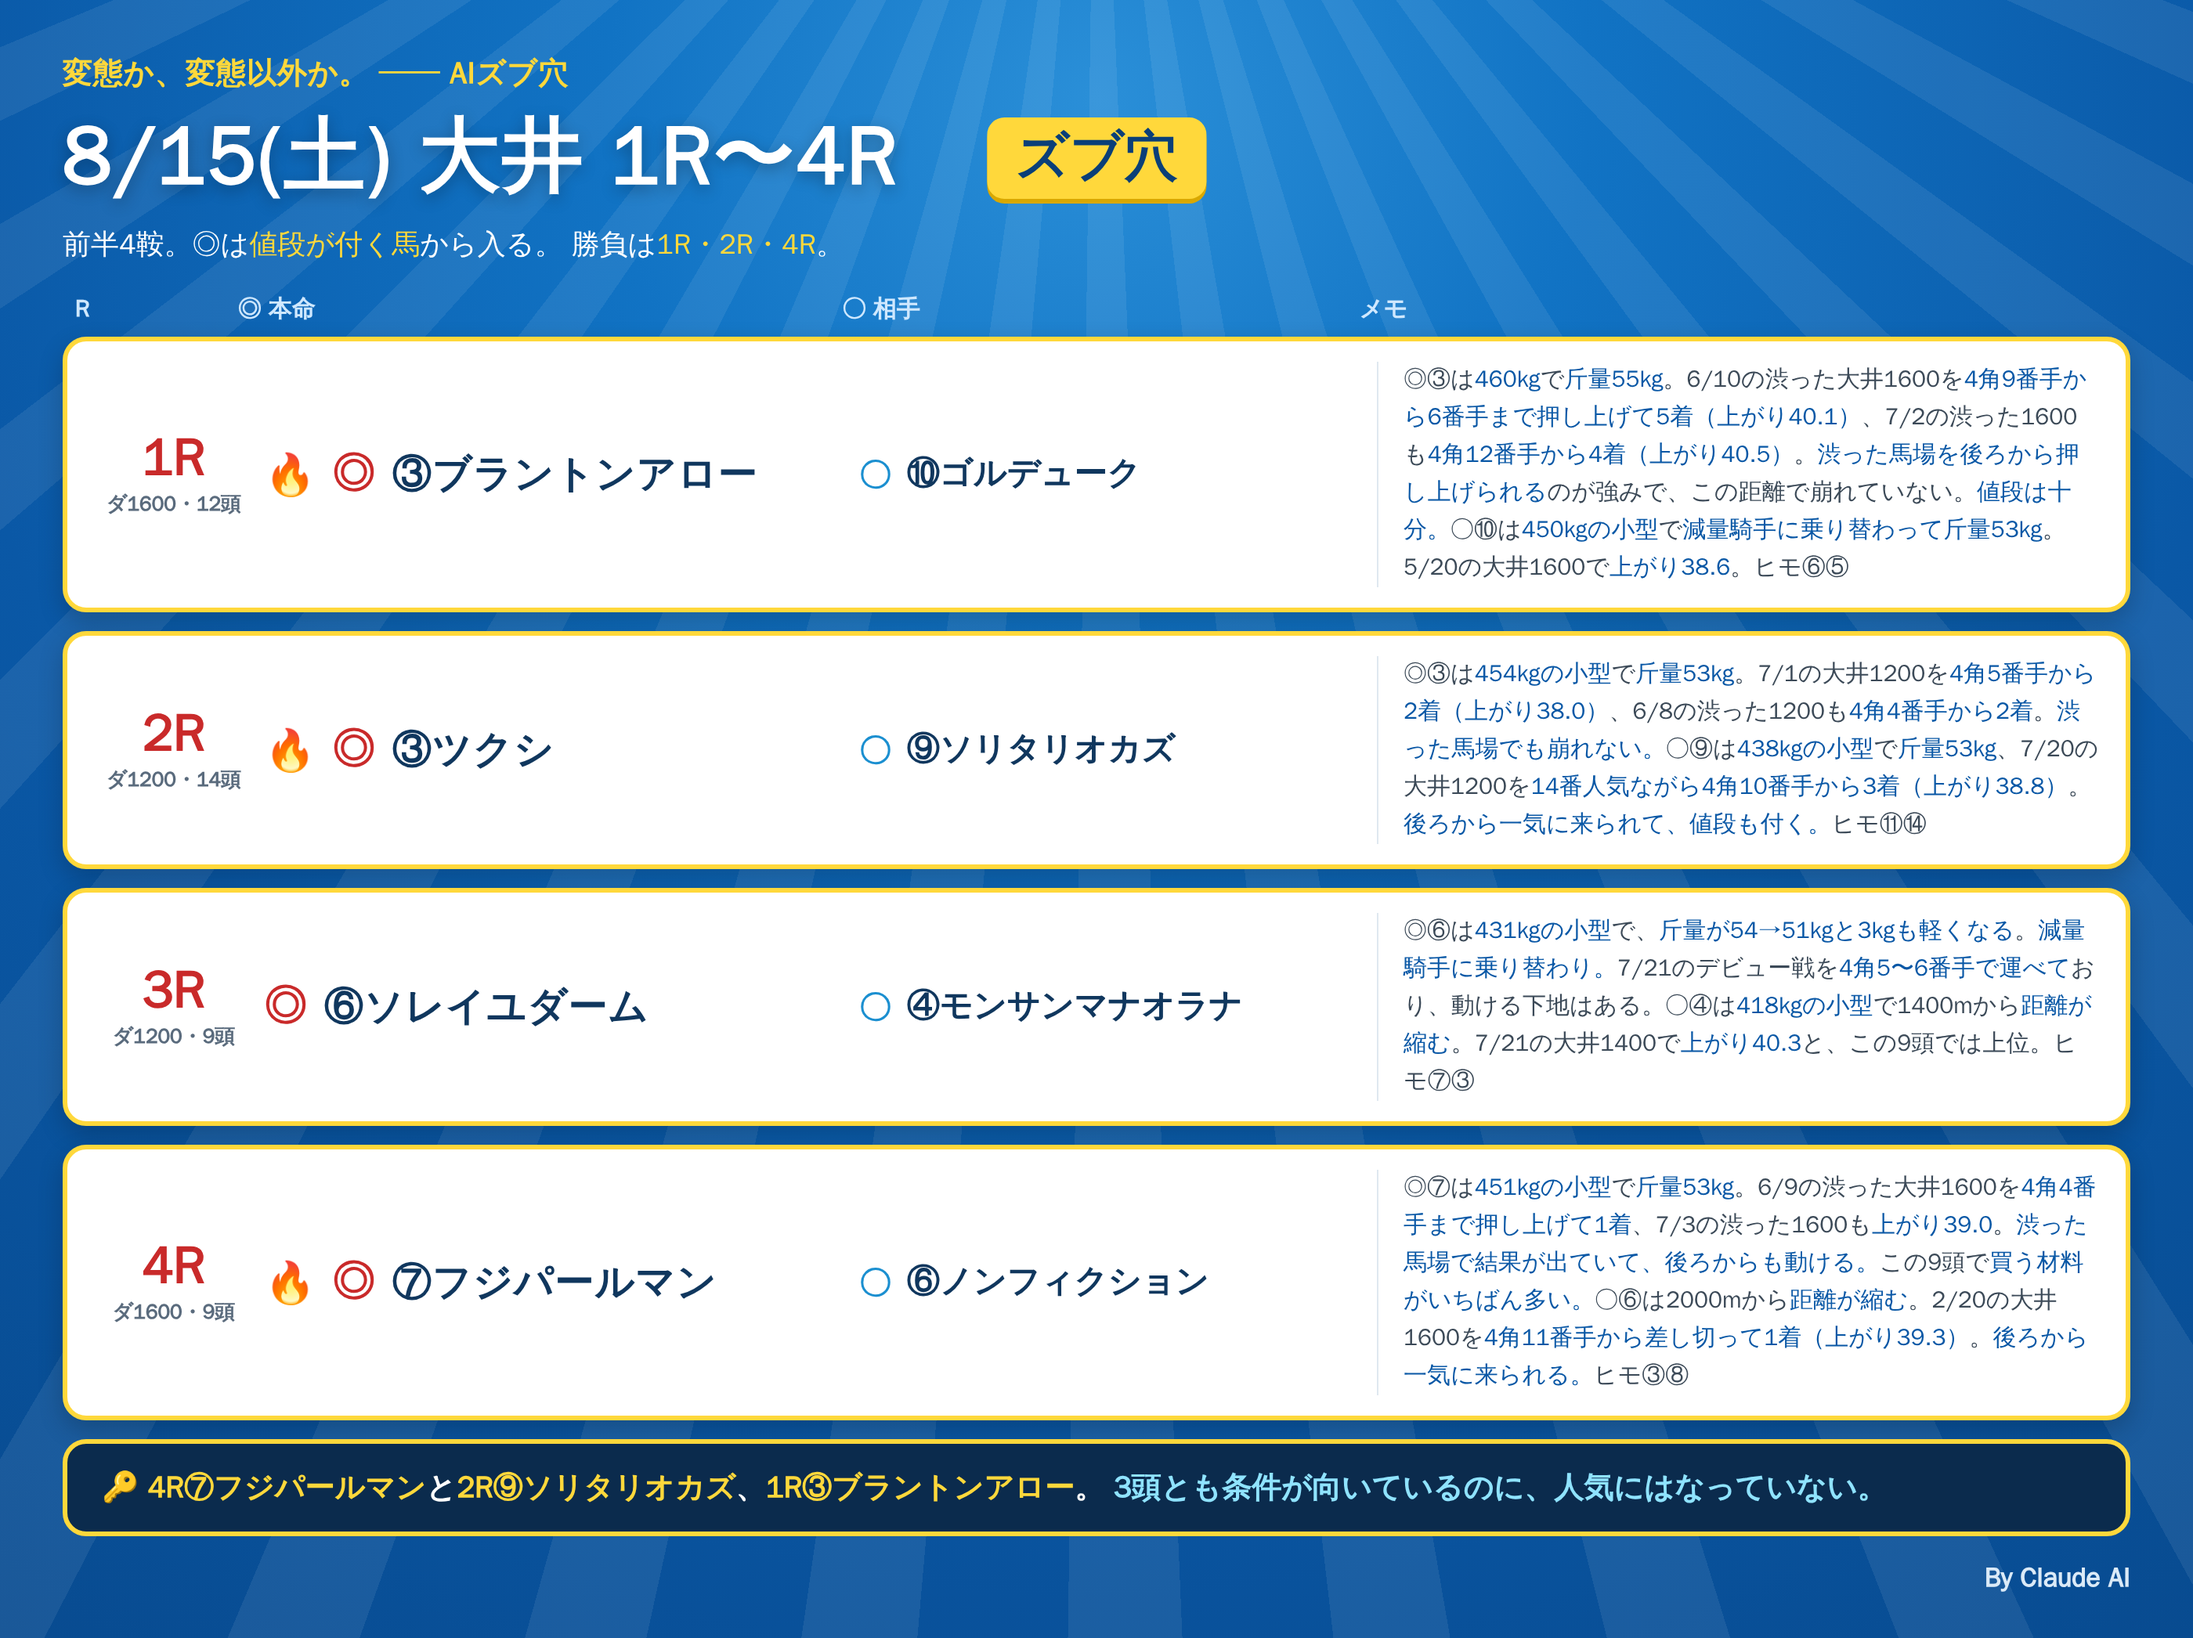
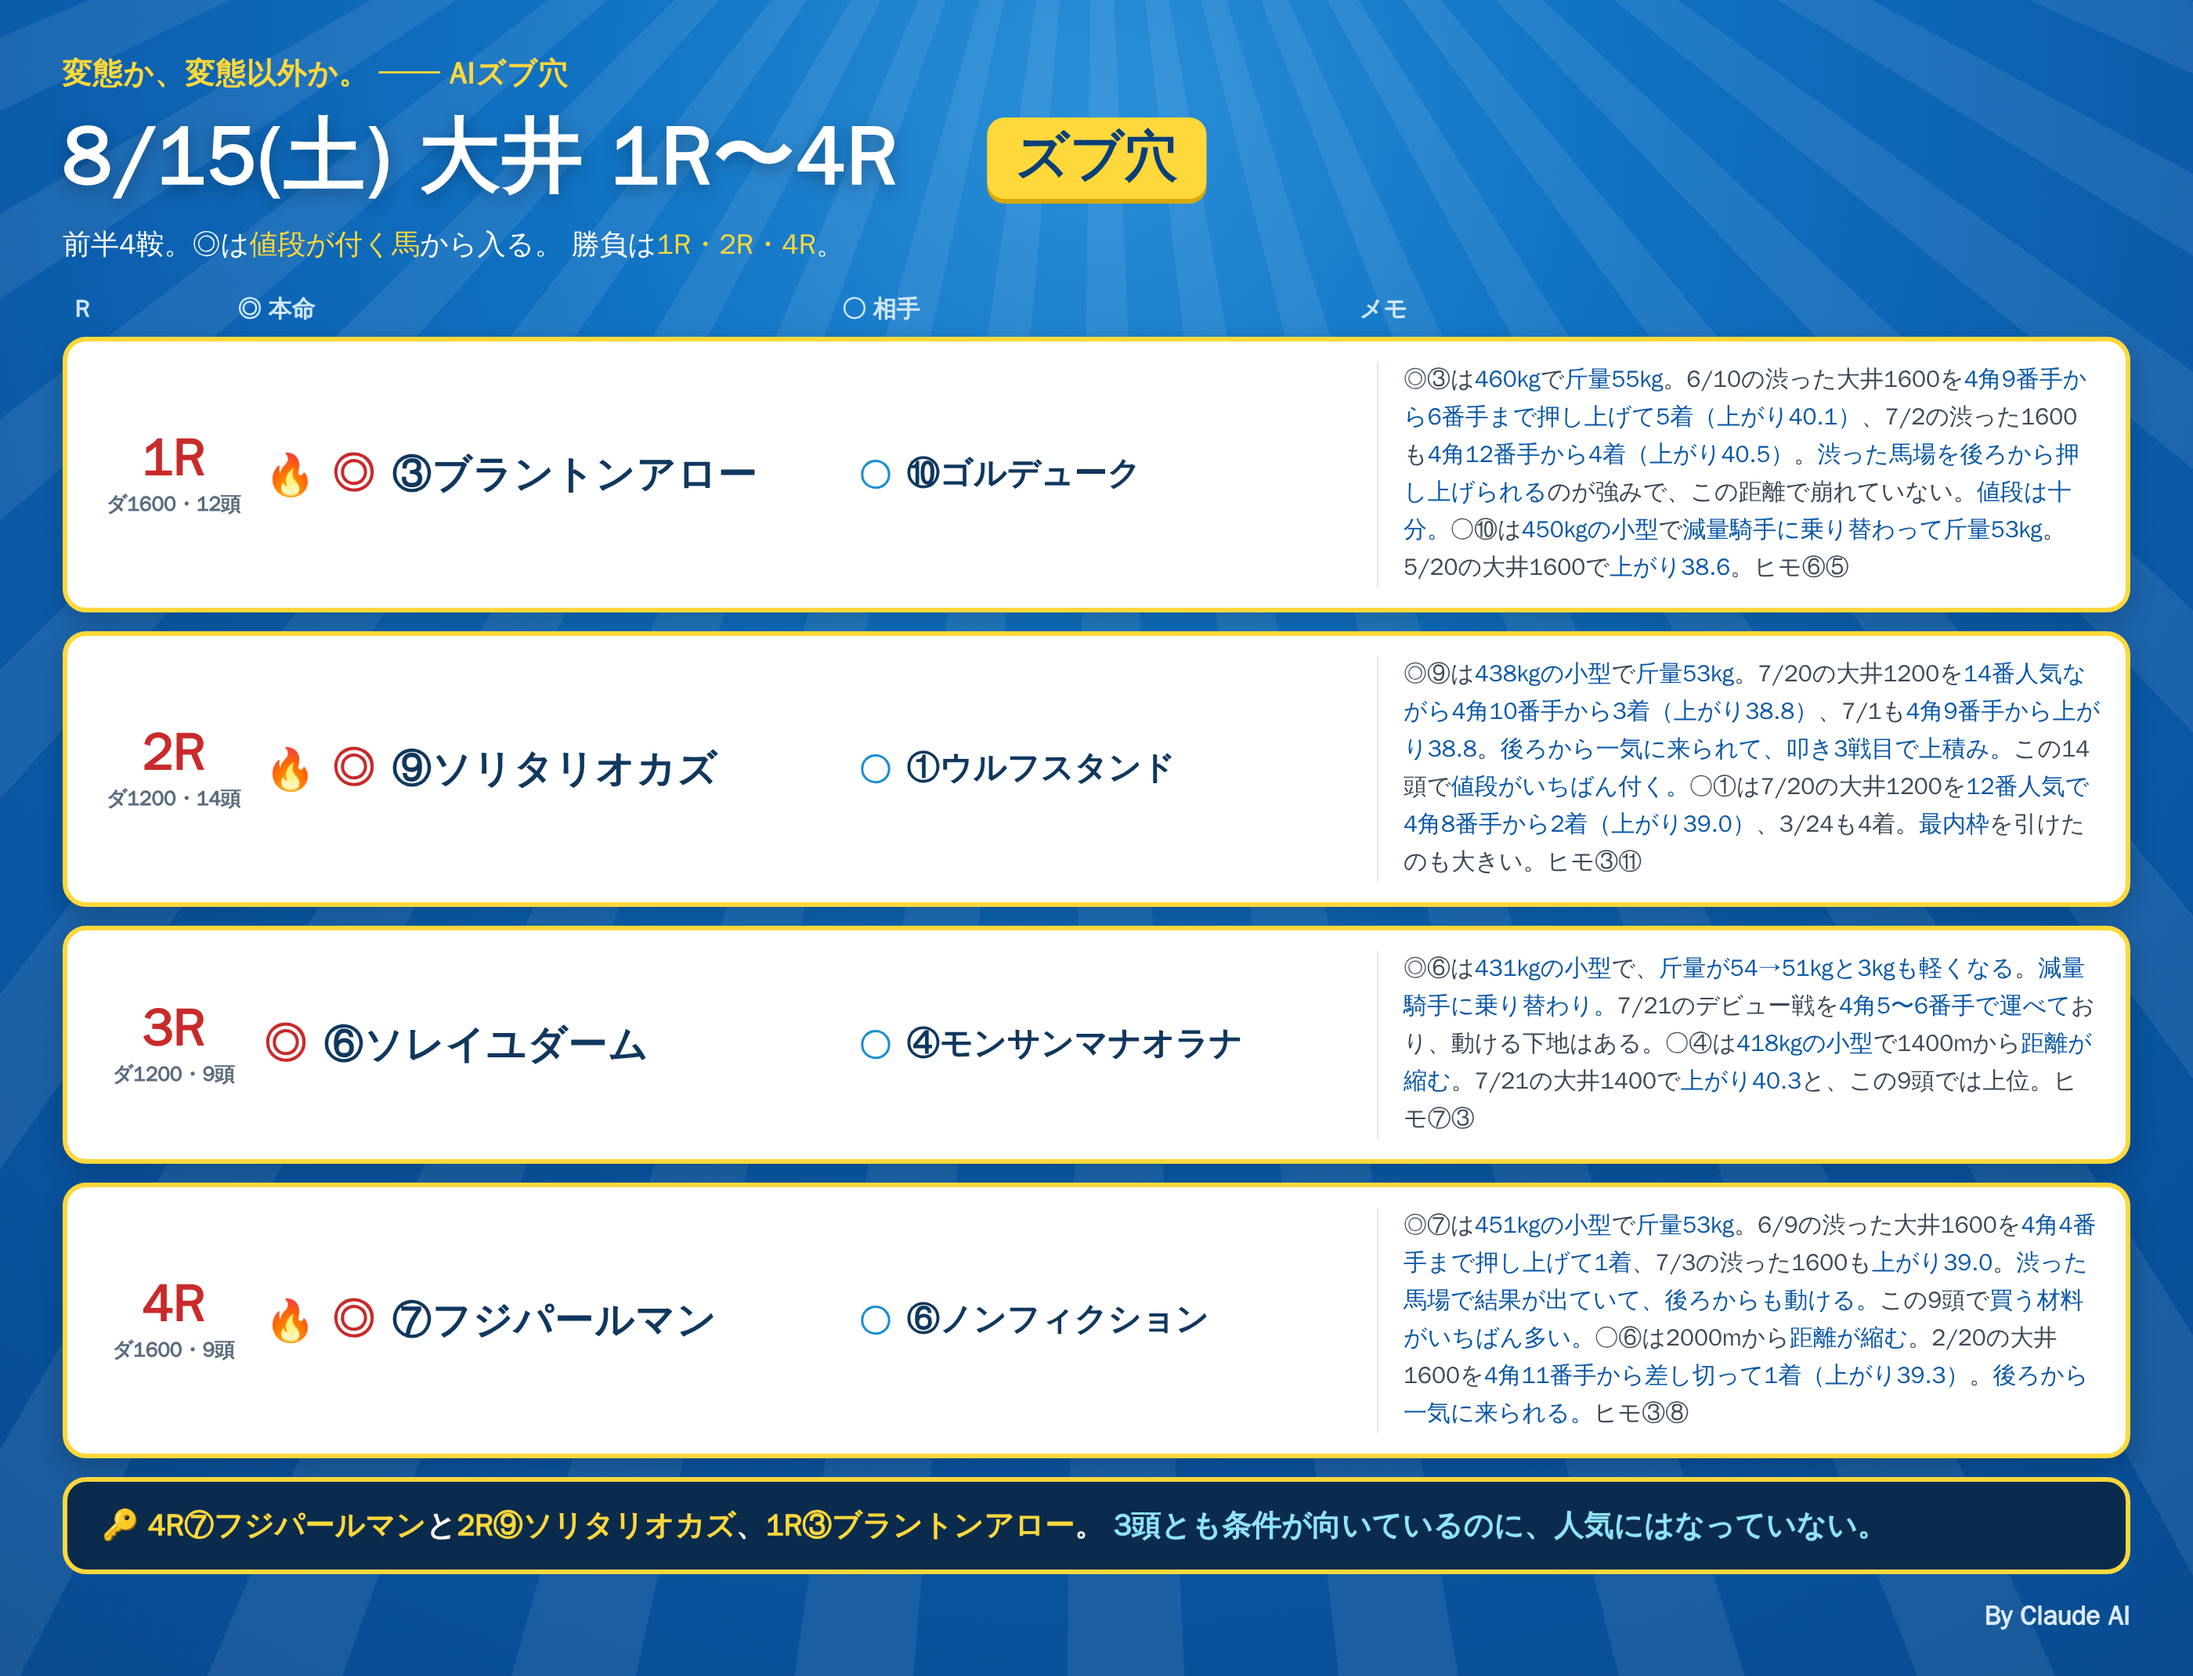
8/15大井 2R 印変更（◎⑨ソリタリオカズ ○①ウルフスタンド）

diff --git a/notes/live/2026-08-15/oi_1_4.html b/notes/live/2026-08-15/oi_1_4.html
@@ -59,9 +59,9 @@
 
   <div class="row">
     <div class="rN"><div class="n">2R</div><div class="d">ダ1200・14頭</div></div>
-    <div class="hm"><span class="fire">🔥</span><span class="mk">◎</span><span class="nm">③ツクシ</span></div>
-    <div class="at"><span class="mk2">○</span><span class="nm2">⑨ソリタリオカズ</span></div>
-    <div class="memo">◎③は<b>454kgの小型</b>で<b>斤量53kg</b>。7/1の大井1200を<b>4角5番手から2着（上がり38.0）</b>、6/8の渋った1200も<b>4角4番手から2着</b>。<b>渋った馬場でも崩れない。</b>○⑨は<b>438kgの小型</b>で<b>斤量53kg</b>、7/20の大井1200を<b>14番人気ながら4角10番手から3着（上がり38.8）</b>。<b>後ろから一気に来られて、値段も付く。</b>ヒモ⑪⑭</div>
+    <div class="hm"><span class="fire">🔥</span><span class="mk">◎</span><span class="nm">⑨ソリタリオカズ</span></div>
+    <div class="at"><span class="mk2">○</span><span class="nm2">①ウルフスタンド</span></div>
+    <div class="memo">◎⑨は<b>438kgの小型</b>で<b>斤量53kg</b>。7/20の大井1200を<b>14番人気ながら4角10番手から3着（上がり38.8）</b>、7/1も<b>4角9番手から上がり38.8</b>。<b>後ろから一気に来られて、叩き3戦目で上積み。</b>この14頭で<b>値段がいちばん付く。</b>○①は7/20の大井1200を<b>12番人気で4角8番手から2着（上がり39.0）</b>、3/24も4着。<b>最内枠</b>を引けたのも大きい。ヒモ③⑪</div>
   </div>
 
   <div class="row">
